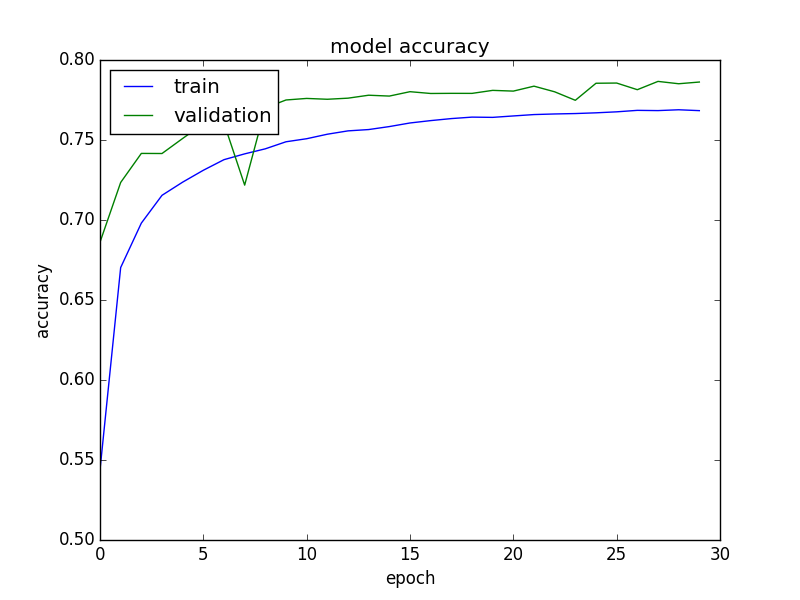
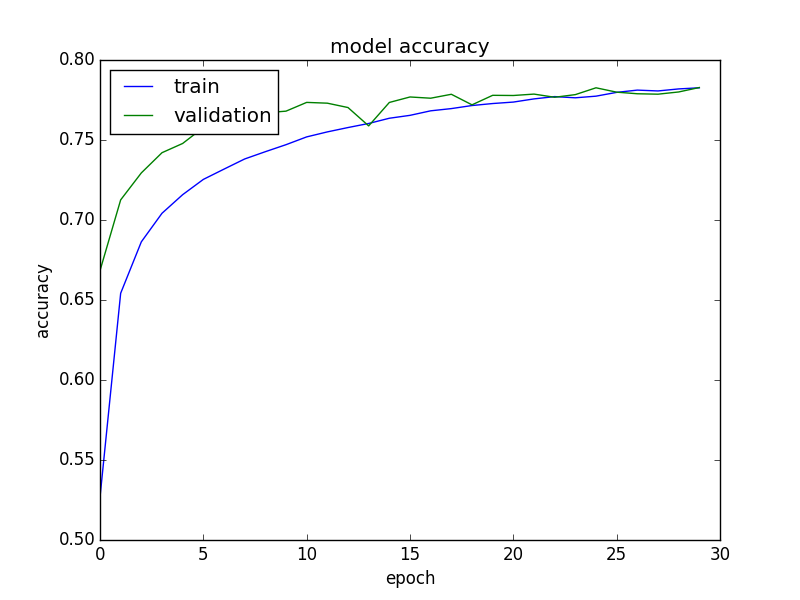
Experimento completo 2

diff --git a/experiment2/experiment2.py b/experiment2/experiment2.py
@@ -6,9 +6,8 @@ import numpy as np
 #np.random.seed(1337)  # for reproducibility
 
 from keras.models import Sequential
-from keras.layers import Dense, Dropout, Activation, Flatten
+from keras.layers import Dense, Dropout, Activation, Flatten, SpatialDropout2D
 from keras.layers import Convolution2D, MaxPooling2D
-from keras import metrics
 from keras.layers.normalization import BatchNormalization
 from keras.utils import np_utils
 from keras import backend as K
@@ -90,13 +89,14 @@ model.add(Convolution2D(nb_filters, kernel_size[0], kernel_size[1],
 model.add(Activation('relu'))
 
 model.add(BatchNormalization())
-model.add(Convolution2D(nb_filters, kernel_size[0], kernel_size[1]))
+model.add(Convolution2D(nb_filters, kernel_size[0], kernel_size[1],
+                        border_mode='same'))
 model.add(Activation('relu'))
 
 model.add(Convolution2D(nb_filters, kernel_size[0], kernel_size[1]))
 model.add(Activation('relu'))
 model.add(MaxPooling2D(pool_size=pool_size))
-model.add(Dropout(0.5))
+model.add(SpatialDropout2D(0.5))
 
 model.add(Convolution2D(nb_filters, kernel_size[0], kernel_size[1]))
 model.add(Activation('relu'))
@@ -110,9 +110,11 @@ model.add(Activation('relu'))
 
 model.add(Dropout(0.25))
 model.add(Flatten())
-model.add(Dense(500))
+model.add(Dense(400))
 model.add(Activation('relu'))
 model.add(Dropout(0.5))
+model.add(Dense(1000))
+model.add(Activation('relu'))
 model.add(Dense(nb_classes))
 model.add(Activation('softmax'))
 
